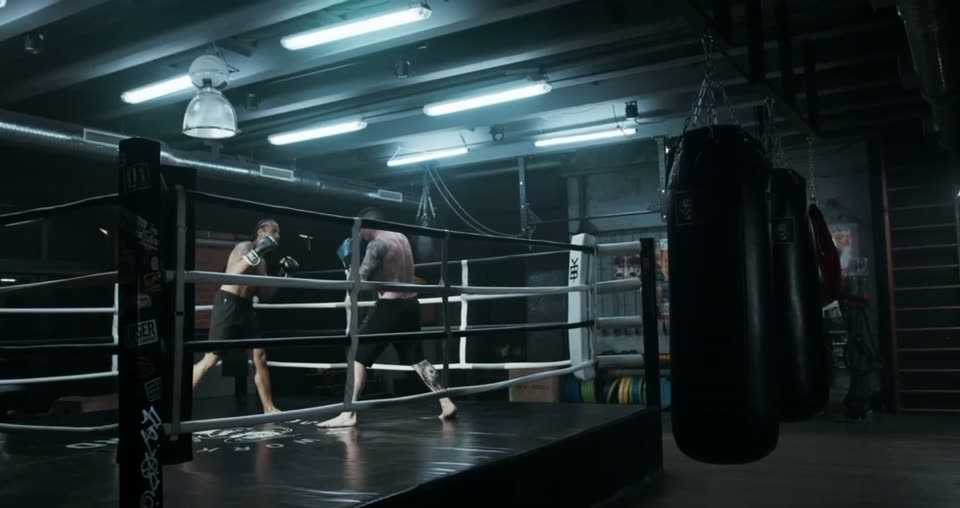
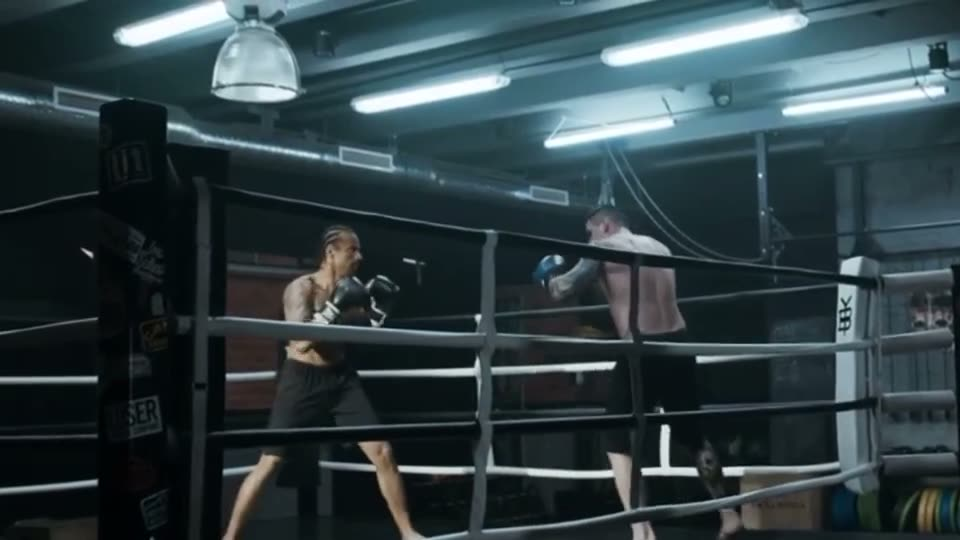
fix: precise anchor scrolling, prominent hero kicker, larger phone, home-screen state, 3s guides clip, 2K ropes video, fighter zoom, slower app pacing, scroll cue + playwright 4-mode suite (16/16)

diff --git a/combat-coach-landing.html b/combat-coach-landing.html
@@ -183,6 +183,8 @@ html.js .reveal.in{opacity:1;transform:none}
 .hero .lead{max-width:54ch;margin-bottom:var(--s4)}
 /* hero חדש: ממורכז — כותרת מותג, שילוב דיסציפלינות, תמונה+מעטפת, כפתור גילוי רחב + CTA חצי */
 .hero-center{text-align:center;display:flex;flex-direction:column;align-items:center}
+/* המשפט העליון = כותרת-משנה אמיתית, לא תגית קטנה */
+.hero-eyebrow{font-size:clamp(1.05rem,2.6vw,1.5rem);letter-spacing:.02em;text-transform:none;color:var(--fg);font-weight:800;margin-bottom:var(--s1)}
 .hero-mix{color:var(--brand-2);font-weight:800;font-size:clamp(1.02rem,2.4vw,1.3rem);letter-spacing:.02em;margin-bottom:var(--s4)}
 .hero-mix.sm{font-size:.95rem;margin:0;color:var(--brand)}
 .hero-duo{display:flex;align-items:center;gap:clamp(1.2rem,3vw,2.5rem);margin-block:var(--s2) var(--s4);max-width:860px}
@@ -236,7 +238,7 @@ html.js .reveal.in{opacity:1;transform:none}
 /* desktop pinned scene */
 .appx-desktop{display:block}
 .appx-pin{position:relative;height:100svh;overflow:hidden}
-.appx-stage{position:absolute;top:0;bottom:0;left:var(--pad);right:auto;width:min(36%,400px)} /* צר יותר — שלא ייגע בטלפון ב-1280–1536px */
+.appx-stage{position:absolute;top:0;bottom:0;left:var(--pad);right:auto;width:min(34%,380px)} /* צר יותר — הטלפון הוגדל ל-330px */
 .appx-stage .ax{position:absolute;inset:0;display:flex;flex-direction:column;justify-content:center;
   opacity:0;transform:translateY(16px);transition:opacity .3s,transform .3s}
 .appx-stage .ax.on{opacity:1}
@@ -509,8 +511,18 @@ html.no-js .appx-mobile,html.no-js .trainx-mobile,html.no-js .commx-mobile{displ
 .axbtn{margin-top:var(--s3);align-self:flex-start}
 .mpanel-app .axbtn{align-self:center;margin-top:0}
 .mpanel-media video{width:100%;height:100%;object-fit:cover;display:block;position:absolute;inset:0}
-/* ה-CTA הצף מתחבא בסצנות שבהן הכיתוב יושב למטה (אימון/קהילה) — לא מסתיר תוכן */
+/* ה-CTA הצף מתחבא בסצנות שבהן הכיתוב יושב למטה (אימון/אפליקציה/קהילה) — לא מסתיר תוכן */
 body.cta-hide .sticky-cta{opacity:0!important;transform:translateY(14px)!important;pointer-events:none!important}
+/* חץ "המשך לגלול" — מופיע בדיוק כשה-CTA מוסתר, שלא ילכו לאיבוד */
+.scroll-cue{position:fixed;bottom:.8rem;inset-inline-start:50%;transform:translateX(-50%);z-index:44;
+  color:rgba(255,255,255,.55);font-size:.72rem;font-weight:700;letter-spacing:.08em;text-align:center;
+  display:flex;flex-direction:column;align-items:center;gap:.05rem;pointer-events:none;opacity:0;transition:opacity .4s}
+.scroll-cue span{font-size:1rem;animation:cuebob 1.8s ease-in-out infinite}
+@keyframes cuebob{0%,100%{transform:translateY(0)}50%{transform:translateY(5px)}}
+body.cta-hide .scroll-cue{opacity:1}
+/* טלפון גדול יותר בסצנת האפליקציה */
+.appx-desktop .phone{width:330px}
+.mpanel-app .phone{height:min(62svh,540px)!important}
 
 /* ============ MOBILE: full-screen scroll-snap panels (pure CSS, no JS) ============ */
 @media(max-width:900px){
@@ -598,13 +610,12 @@ body.cta-hide .sticky-cta{opacity:0!important;transform:translateY(14px)!importa
 </nav>
 
 <div class="sticky-cta" id="stickyCta"><a href="#check" class="btn">בדיקת התאמה למחזור הקרוב</a></div>
+<div class="scroll-cue" aria-hidden="true">גלול להמשך<span>↓</span></div>
 
 <!-- ===================== SCENE 1 — HERO ===================== -->
 <header class="hero">
   <div class="hero-bg" aria-hidden="true">
-    <!-- ⚠️ החלף: תמונה שלך מלאת-מסך (object-fit:cover). כרגע placeholder. -->
     <div class="ph-media"></div>
-    <div class="ph-tag">⬆ כאן נכנסת התמונה שלך (רקע מלא)</div>
   </div>
   <div class="hero-overlay" aria-hidden="true"></div>
   <div class="wrap hero-center">
@@ -710,7 +721,7 @@ body.cta-hide .sticky-cta{opacity:0!important;transform:translateY(14px)!importa
       <div class="appx-phone-wrap">
         <div class="phone"><div class="phone-screen">
           <!-- מסכים אמיתיים מהאפליקציה -->
-          <div class="ps media on" data-i="0"><video class="psfull" muted loop playsinline preload="metadata" poster="media/app-programs.jpg"><source src="media/app-programs.mp4" type="video/mp4"></video></div>
+          <div class="ps media on" data-i="0"><img class="psfull" src="media/app-home.jpg" alt="מסך הבית של אפליקציית קומבאט קואץ׳"></div>
           <div class="ps media" data-i="1"><img class="psfull" src="media/app-quiz.jpg" alt="שאלון ההתאמה באפליקציה" loading="lazy"></div>
           <div class="ps media" data-i="2"><img class="psfull" src="media/app-building.jpg" alt="האפליקציה בונה תוכנית אישית" loading="lazy"></div>
           <div class="ps media accent" data-i="3"><video class="psfull" muted loop playsinline preload="metadata" poster="media/app-guides.jpg"><source src="media/app-guides.mp4" type="video/mp4"></video></div>
@@ -724,7 +735,7 @@ body.cta-hide .sticky-cta{opacity:0!important;transform:translateY(14px)!importa
     <div class="mpanel mpanel-app">
       <div class="mpanel-appcopy"><div class="sx-n"><span class="ltr">01</span></div><h3>תוכנית ליווי מותאמת אישית — דרך אפליקציית קומבאט קואץ׳</h3></div>
       <div class="phone"><div class="phone-screen">
-        <div class="ps media on"><video class="psfull" muted loop playsinline preload="metadata" poster="media/app-programs.jpg"><source src="media/app-programs.mp4" type="video/mp4"></video></div>
+        <div class="ps media on"><img class="psfull" src="media/app-home.jpg" alt="מסך הבית של אפליקציית קומבאט קואץ׳"></div>
       </div></div>
       <button type="button" class="btn btn-sm axbtn" data-mnext>איך זה עובד?</button>
     </div>
@@ -1047,6 +1058,17 @@ body.cta-hide .sticky-cta{opacity:0!important;transform:translateY(14px)!importa
   addEventListener('orientationchange',function(){setTimeout(function(){ScrollTrigger.refresh();},300);});
   function scrollToY(y){ window.scrollTo({top:y,behavior:'smooth'}); }
 
+  // תיקון שורש לכפתור "גלה עוד" ולניווט: קפיצת-עוגן של הדפדפן מפספסת כשיש סצנות pinned —
+  // מחשבים את המיקום האמיתי ברגע הלחיצה במקום לסמוך על העוגן.
+  document.querySelectorAll('a[href^="#"]').forEach(function(a){
+    var id=a.getAttribute('href'); if(id.length<2) return;
+    a.addEventListener('click',function(e){
+      var t=document.querySelector(id); if(!t) return;
+      e.preventDefault();
+      scrollToY(t.getBoundingClientRect().top+scrollY+2);
+    });
+  });
+
   gsap.to('.progress',{scaleX:1,ease:'none',scrollTrigger:{trigger:document.body,start:'top top',end:'bottom bottom',scrub:true}});
 
   gsap.timeline({defaults:{ease:'power3.out'}})
@@ -1192,7 +1214,7 @@ body.cta-hide .sticky-cta{opacity:0!important;transform:translateY(14px)!importa
       return rot;
     }
     var appMobScreens=gsap.utils.toArray('.appx-mobile .phone-screen');
-    pinMobileScene('.appx-mobile',480,function(i,local,panel,raw,N){
+    pinMobileScene('.appx-mobile',600,function(i,local,panel,raw,N){
       playOnly(appMobScreens,i);
       if(!mPhones) mPhones=gsap.utils.toArray('.appx-mobile .phone');
       if(!mPhones.length) return;
@@ -1212,11 +1234,11 @@ body.cta-hide .sticky-cta{opacity:0!important;transform:translateY(14px)!importa
   ScrollTrigger.create({trigger:'#community',start:'top bottom',
     onLeaveBack:function(){document.body.classList.remove('ai-mode');}});
 
-  // ה-CTA הצף מתחבא בסצנות שהכיתוב שלהן יושב למטה — לא מסתיר תוכן
-  ScrollTrigger.create({trigger:'#train',start:'top 55%',end:'bottom 45%',
-    toggleClass:{targets:'body',className:'cta-hide'}});
-  ScrollTrigger.create({trigger:'#community',start:'top 55%',end:'bottom 45%',
-    toggleClass:{targets:'body',className:'cta-hide'}});
+  // ה-CTA הצף מתחבא בסצנות שהכיתוב/כפתורים שלהן למטה — לא מסתיר תוכן. חץ "גלול להמשך" מופיע במקומו.
+  ['#train','#app','#community'].forEach(function(sec){
+    ScrollTrigger.create({trigger:sec,start:'top 55%',end:'bottom 45%',
+      toggleClass:{targets:'body',className:'cta-hide'}});
+  });
 
   document.querySelectorAll('.stepper').forEach(function(s){
     var v=s.querySelector('.reps');

diff --git a/index.html b/index.html
@@ -183,6 +183,8 @@ html.js .reveal.in{opacity:1;transform:none}
 .hero .lead{max-width:54ch;margin-bottom:var(--s4)}
 /* hero חדש: ממורכז — כותרת מותג, שילוב דיסציפלינות, תמונה+מעטפת, כפתור גילוי רחב + CTA חצי */
 .hero-center{text-align:center;display:flex;flex-direction:column;align-items:center}
+/* המשפט העליון = כותרת-משנה אמיתית, לא תגית קטנה */
+.hero-eyebrow{font-size:clamp(1.05rem,2.6vw,1.5rem);letter-spacing:.02em;text-transform:none;color:var(--fg);font-weight:800;margin-bottom:var(--s1)}
 .hero-mix{color:var(--brand-2);font-weight:800;font-size:clamp(1.02rem,2.4vw,1.3rem);letter-spacing:.02em;margin-bottom:var(--s4)}
 .hero-mix.sm{font-size:.95rem;margin:0;color:var(--brand)}
 .hero-duo{display:flex;align-items:center;gap:clamp(1.2rem,3vw,2.5rem);margin-block:var(--s2) var(--s4);max-width:860px}
@@ -236,7 +238,7 @@ html.js .reveal.in{opacity:1;transform:none}
 /* desktop pinned scene */
 .appx-desktop{display:block}
 .appx-pin{position:relative;height:100svh;overflow:hidden}
-.appx-stage{position:absolute;top:0;bottom:0;left:var(--pad);right:auto;width:min(36%,400px)} /* צר יותר — שלא ייגע בטלפון ב-1280–1536px */
+.appx-stage{position:absolute;top:0;bottom:0;left:var(--pad);right:auto;width:min(34%,380px)} /* צר יותר — הטלפון הוגדל ל-330px */
 .appx-stage .ax{position:absolute;inset:0;display:flex;flex-direction:column;justify-content:center;
   opacity:0;transform:translateY(16px);transition:opacity .3s,transform .3s}
 .appx-stage .ax.on{opacity:1}
@@ -509,8 +511,18 @@ html.no-js .appx-mobile,html.no-js .trainx-mobile,html.no-js .commx-mobile{displ
 .axbtn{margin-top:var(--s3);align-self:flex-start}
 .mpanel-app .axbtn{align-self:center;margin-top:0}
 .mpanel-media video{width:100%;height:100%;object-fit:cover;display:block;position:absolute;inset:0}
-/* ה-CTA הצף מתחבא בסצנות שבהן הכיתוב יושב למטה (אימון/קהילה) — לא מסתיר תוכן */
+/* ה-CTA הצף מתחבא בסצנות שבהן הכיתוב יושב למטה (אימון/אפליקציה/קהילה) — לא מסתיר תוכן */
 body.cta-hide .sticky-cta{opacity:0!important;transform:translateY(14px)!important;pointer-events:none!important}
+/* חץ "המשך לגלול" — מופיע בדיוק כשה-CTA מוסתר, שלא ילכו לאיבוד */
+.scroll-cue{position:fixed;bottom:.8rem;inset-inline-start:50%;transform:translateX(-50%);z-index:44;
+  color:rgba(255,255,255,.55);font-size:.72rem;font-weight:700;letter-spacing:.08em;text-align:center;
+  display:flex;flex-direction:column;align-items:center;gap:.05rem;pointer-events:none;opacity:0;transition:opacity .4s}
+.scroll-cue span{font-size:1rem;animation:cuebob 1.8s ease-in-out infinite}
+@keyframes cuebob{0%,100%{transform:translateY(0)}50%{transform:translateY(5px)}}
+body.cta-hide .scroll-cue{opacity:1}
+/* טלפון גדול יותר בסצנת האפליקציה */
+.appx-desktop .phone{width:330px}
+.mpanel-app .phone{height:min(62svh,540px)!important}
 
 /* ============ MOBILE: full-screen scroll-snap panels (pure CSS, no JS) ============ */
 @media(max-width:900px){
@@ -598,13 +610,12 @@ body.cta-hide .sticky-cta{opacity:0!important;transform:translateY(14px)!importa
 </nav>
 
 <div class="sticky-cta" id="stickyCta"><a href="#check" class="btn">בדיקת התאמה למחזור הקרוב</a></div>
+<div class="scroll-cue" aria-hidden="true">גלול להמשך<span>↓</span></div>
 
 <!-- ===================== SCENE 1 — HERO ===================== -->
 <header class="hero">
   <div class="hero-bg" aria-hidden="true">
-    <!-- ⚠️ החלף: תמונה שלך מלאת-מסך (object-fit:cover). כרגע placeholder. -->
     <div class="ph-media"></div>
-    <div class="ph-tag">⬆ כאן נכנסת התמונה שלך (רקע מלא)</div>
   </div>
   <div class="hero-overlay" aria-hidden="true"></div>
   <div class="wrap hero-center">
@@ -710,7 +721,7 @@ body.cta-hide .sticky-cta{opacity:0!important;transform:translateY(14px)!importa
       <div class="appx-phone-wrap">
         <div class="phone"><div class="phone-screen">
           <!-- מסכים אמיתיים מהאפליקציה -->
-          <div class="ps media on" data-i="0"><video class="psfull" muted loop playsinline preload="metadata" poster="media/app-programs.jpg"><source src="media/app-programs.mp4" type="video/mp4"></video></div>
+          <div class="ps media on" data-i="0"><img class="psfull" src="media/app-home.jpg" alt="מסך הבית של אפליקציית קומבאט קואץ׳"></div>
           <div class="ps media" data-i="1"><img class="psfull" src="media/app-quiz.jpg" alt="שאלון ההתאמה באפליקציה" loading="lazy"></div>
           <div class="ps media" data-i="2"><img class="psfull" src="media/app-building.jpg" alt="האפליקציה בונה תוכנית אישית" loading="lazy"></div>
           <div class="ps media accent" data-i="3"><video class="psfull" muted loop playsinline preload="metadata" poster="media/app-guides.jpg"><source src="media/app-guides.mp4" type="video/mp4"></video></div>
@@ -724,7 +735,7 @@ body.cta-hide .sticky-cta{opacity:0!important;transform:translateY(14px)!importa
     <div class="mpanel mpanel-app">
       <div class="mpanel-appcopy"><div class="sx-n"><span class="ltr">01</span></div><h3>תוכנית ליווי מותאמת אישית — דרך אפליקציית קומבאט קואץ׳</h3></div>
       <div class="phone"><div class="phone-screen">
-        <div class="ps media on"><video class="psfull" muted loop playsinline preload="metadata" poster="media/app-programs.jpg"><source src="media/app-programs.mp4" type="video/mp4"></video></div>
+        <div class="ps media on"><img class="psfull" src="media/app-home.jpg" alt="מסך הבית של אפליקציית קומבאט קואץ׳"></div>
       </div></div>
       <button type="button" class="btn btn-sm axbtn" data-mnext>איך זה עובד?</button>
     </div>
@@ -1047,6 +1058,17 @@ body.cta-hide .sticky-cta{opacity:0!important;transform:translateY(14px)!importa
   addEventListener('orientationchange',function(){setTimeout(function(){ScrollTrigger.refresh();},300);});
   function scrollToY(y){ window.scrollTo({top:y,behavior:'smooth'}); }
 
+  // תיקון שורש לכפתור "גלה עוד" ולניווט: קפיצת-עוגן של הדפדפן מפספסת כשיש סצנות pinned —
+  // מחשבים את המיקום האמיתי ברגע הלחיצה במקום לסמוך על העוגן.
+  document.querySelectorAll('a[href^="#"]').forEach(function(a){
+    var id=a.getAttribute('href'); if(id.length<2) return;
+    a.addEventListener('click',function(e){
+      var t=document.querySelector(id); if(!t) return;
+      e.preventDefault();
+      scrollToY(t.getBoundingClientRect().top+scrollY+2);
+    });
+  });
+
   gsap.to('.progress',{scaleX:1,ease:'none',scrollTrigger:{trigger:document.body,start:'top top',end:'bottom bottom',scrub:true}});
 
   gsap.timeline({defaults:{ease:'power3.out'}})
@@ -1192,7 +1214,7 @@ body.cta-hide .sticky-cta{opacity:0!important;transform:translateY(14px)!importa
       return rot;
     }
     var appMobScreens=gsap.utils.toArray('.appx-mobile .phone-screen');
-    pinMobileScene('.appx-mobile',480,function(i,local,panel,raw,N){
+    pinMobileScene('.appx-mobile',600,function(i,local,panel,raw,N){
       playOnly(appMobScreens,i);
       if(!mPhones) mPhones=gsap.utils.toArray('.appx-mobile .phone');
       if(!mPhones.length) return;
@@ -1212,11 +1234,11 @@ body.cta-hide .sticky-cta{opacity:0!important;transform:translateY(14px)!importa
   ScrollTrigger.create({trigger:'#community',start:'top bottom',
     onLeaveBack:function(){document.body.classList.remove('ai-mode');}});
 
-  // ה-CTA הצף מתחבא בסצנות שהכיתוב שלהן יושב למטה — לא מסתיר תוכן
-  ScrollTrigger.create({trigger:'#train',start:'top 55%',end:'bottom 45%',
-    toggleClass:{targets:'body',className:'cta-hide'}});
-  ScrollTrigger.create({trigger:'#community',start:'top 55%',end:'bottom 45%',
-    toggleClass:{targets:'body',className:'cta-hide'}});
+  // ה-CTA הצף מתחבא בסצנות שהכיתוב/כפתורים שלהן למטה — לא מסתיר תוכן. חץ "גלול להמשך" מופיע במקומו.
+  ['#train','#app','#community'].forEach(function(sec){
+    ScrollTrigger.create({trigger:sec,start:'top 55%',end:'bottom 45%',
+      toggleClass:{targets:'body',className:'cta-hide'}});
+  });
 
   document.querySelectorAll('.stepper').forEach(function(s){
     var v=s.querySelector('.reps');

diff --git a/docs/landing-worldclass-ledger.md b/docs/landing-worldclass-ledger.md
@@ -182,6 +182,20 @@
 - **CTA צף:** מתחבא בסצנות אימון/קהילה (toggleClass cta-hide) — לא מסתיר כיתובים תחתונים.
 - **אומת:** מובייל+דסקטופ — כל הרכיבים קיימים ונטענים (תמונה נטענת, 4+4 וידאו, 4 מסכים, 4 כפתורים, מיזוגים, dots=4, nav נסתר בפתיחה), 0 שגיאות console. אימות תנועה סופי — בטלפון של סהר.
 
+## סבב ליטוש 4 (2026-07-02 לילה) — 9 תיקונים + Playwright הותקן ורץ
+
+- **כפתור "לחץ כדי לגלות עוד" קפץ לסוף** — תוקן שורש: כל העוגנים הפנימיים (`a[href^="#"]`) עברו לגלילה מחושבת ב-JS בזמן לחיצה (קפיצת-עוגן נטיבית מפספסת עם pin-spacers).
+- **בולטות כותרת עליונה** — `.hero-eyebrow` הפך לכותרת-משנה אמיתית (לבן, גדול) מעל "קומבאט אתלט". (הסדר תמיד היה נכון — הבעיה הייתה בולטות.)
+- **טלפון גדול יותר** — דסקטופ 290→330px (stage הוצר ל-34%/380 לשמירת מרווח), מובייל 56svh→62svh.
+- **CTA תחתון מוסתר גם ב-#app** + **חץ "גלול להמשך ↓"** גלובלי שמופיע בדיוק כשה-CTA מוסתר (keyed על body.cta-hide).
+- **מסך 1 באפליקציה** — תמונת מסך-הבית (`app-home.jpg`) במקום סרטון התוכניות.
+- **סרטון הדרכות קוצר ל-3.0ש'** (re-encode נקי, 5.1MB→87KB).
+- **חבלי כוח** — הוחלף בסרטון 2K החדש (`ניעור חבלי כוח.mp4`), פסים לבנים צרובים נחתכו (crop 86%), 1.3MB@720p + פוסטר חדש.
+- **זום לוחמים** — crop 676:380:60:88→960×540; הלוחמים ממלאים את הפריים (פריים אומת ויזואלית).
+- **קצב סצנת האפליקציה** הואט 480%→600% (150svh למסך).
+- הוסר placeholder ישן שריחף ברקע ה-hero.
+- **Playwright הותקן** (package.json + tests/verify.mjs): ×4 מצבים — **16/16 PASS** כולל no-JS ו-reduced-motion; screenshots אמיתיים אימתו את ה-hero החדש בשני הצדדים. רעש צפוי מסונן (Speed Insights 404 מקומי, fonts).
+
 ## פתוחים לסהר (לא חוסמים בנייה)
 - יעד ה-CTA הסופי: הטופס בדף שולח ל-CRM/Make/WhatsApp — איזה webhook? (Step 7).
 - מדיה אמיתית: יש עוד וידאו/תמונות אימון מעבר לקליפ הבודד? (Step 2).